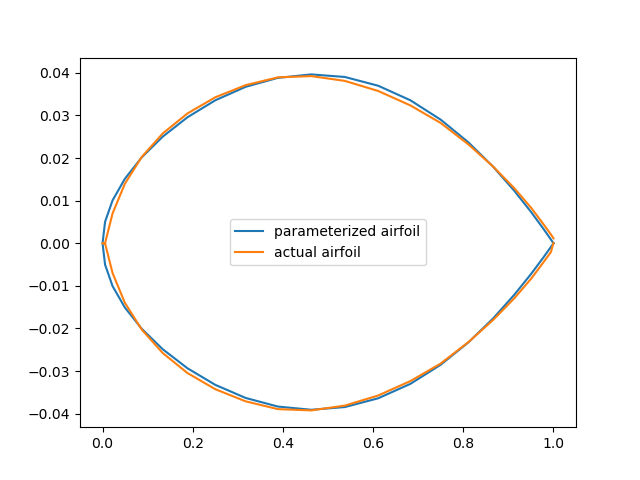
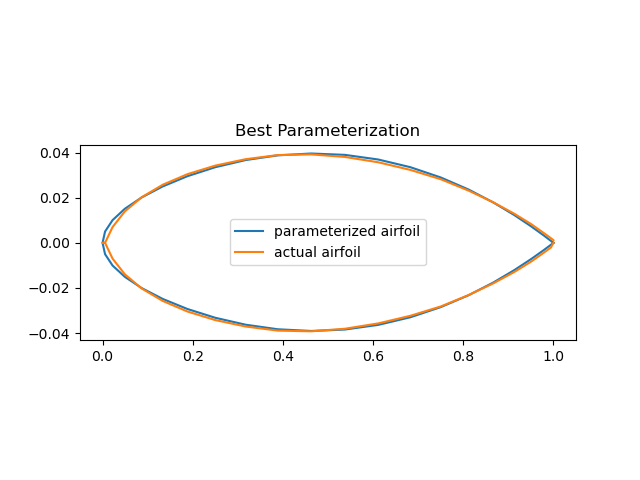
updated figures

diff --git a/parsec_parameterization.py b/parsec_parameterization.py
@@ -239,14 +239,16 @@ plt.figure()
 plt.plot(x_coord_data,y_params_best, label='parameterized airfoil')
 plt.plot(x_coord_data,y_data_best, label='actual airfoil')
 plt.legend()
+plt.title('Best Parameterization')
 ax = plt.gca()
-#ax.set_aspect(auto)
+ax.set_aspect(5)
 
 plt.figure()
 plt.plot(x_coord_data,y_params_worst, label='parameterized airfoil')
 plt.plot(x_coord_data,y_data_worst, label='actual airfoil')
 plt.legend()
+plt.title('Worst Parameterization')
 ax = plt.gca()
-#ax.set_aspect(3)
+ax.set_aspect(2)
 
 plt.show()
